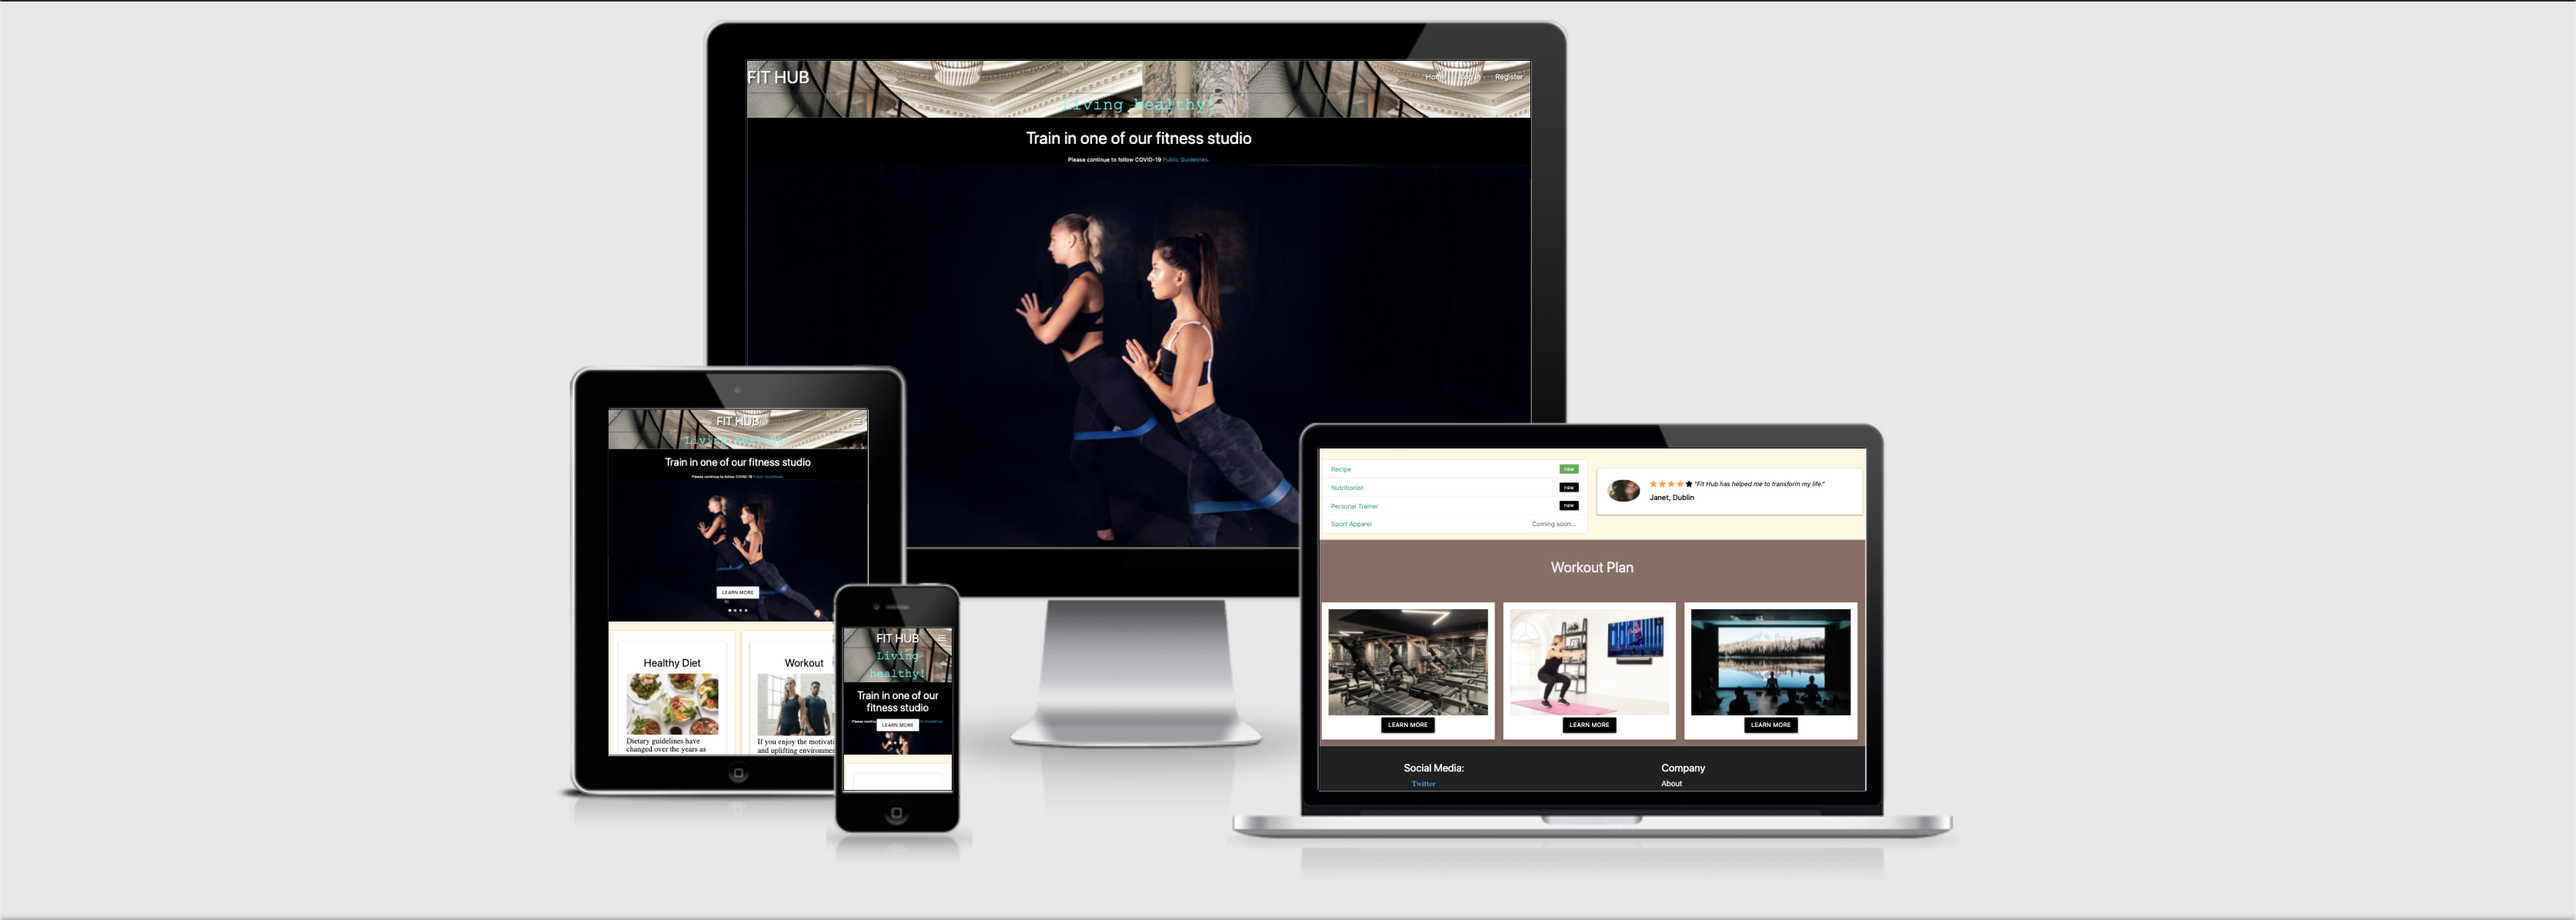
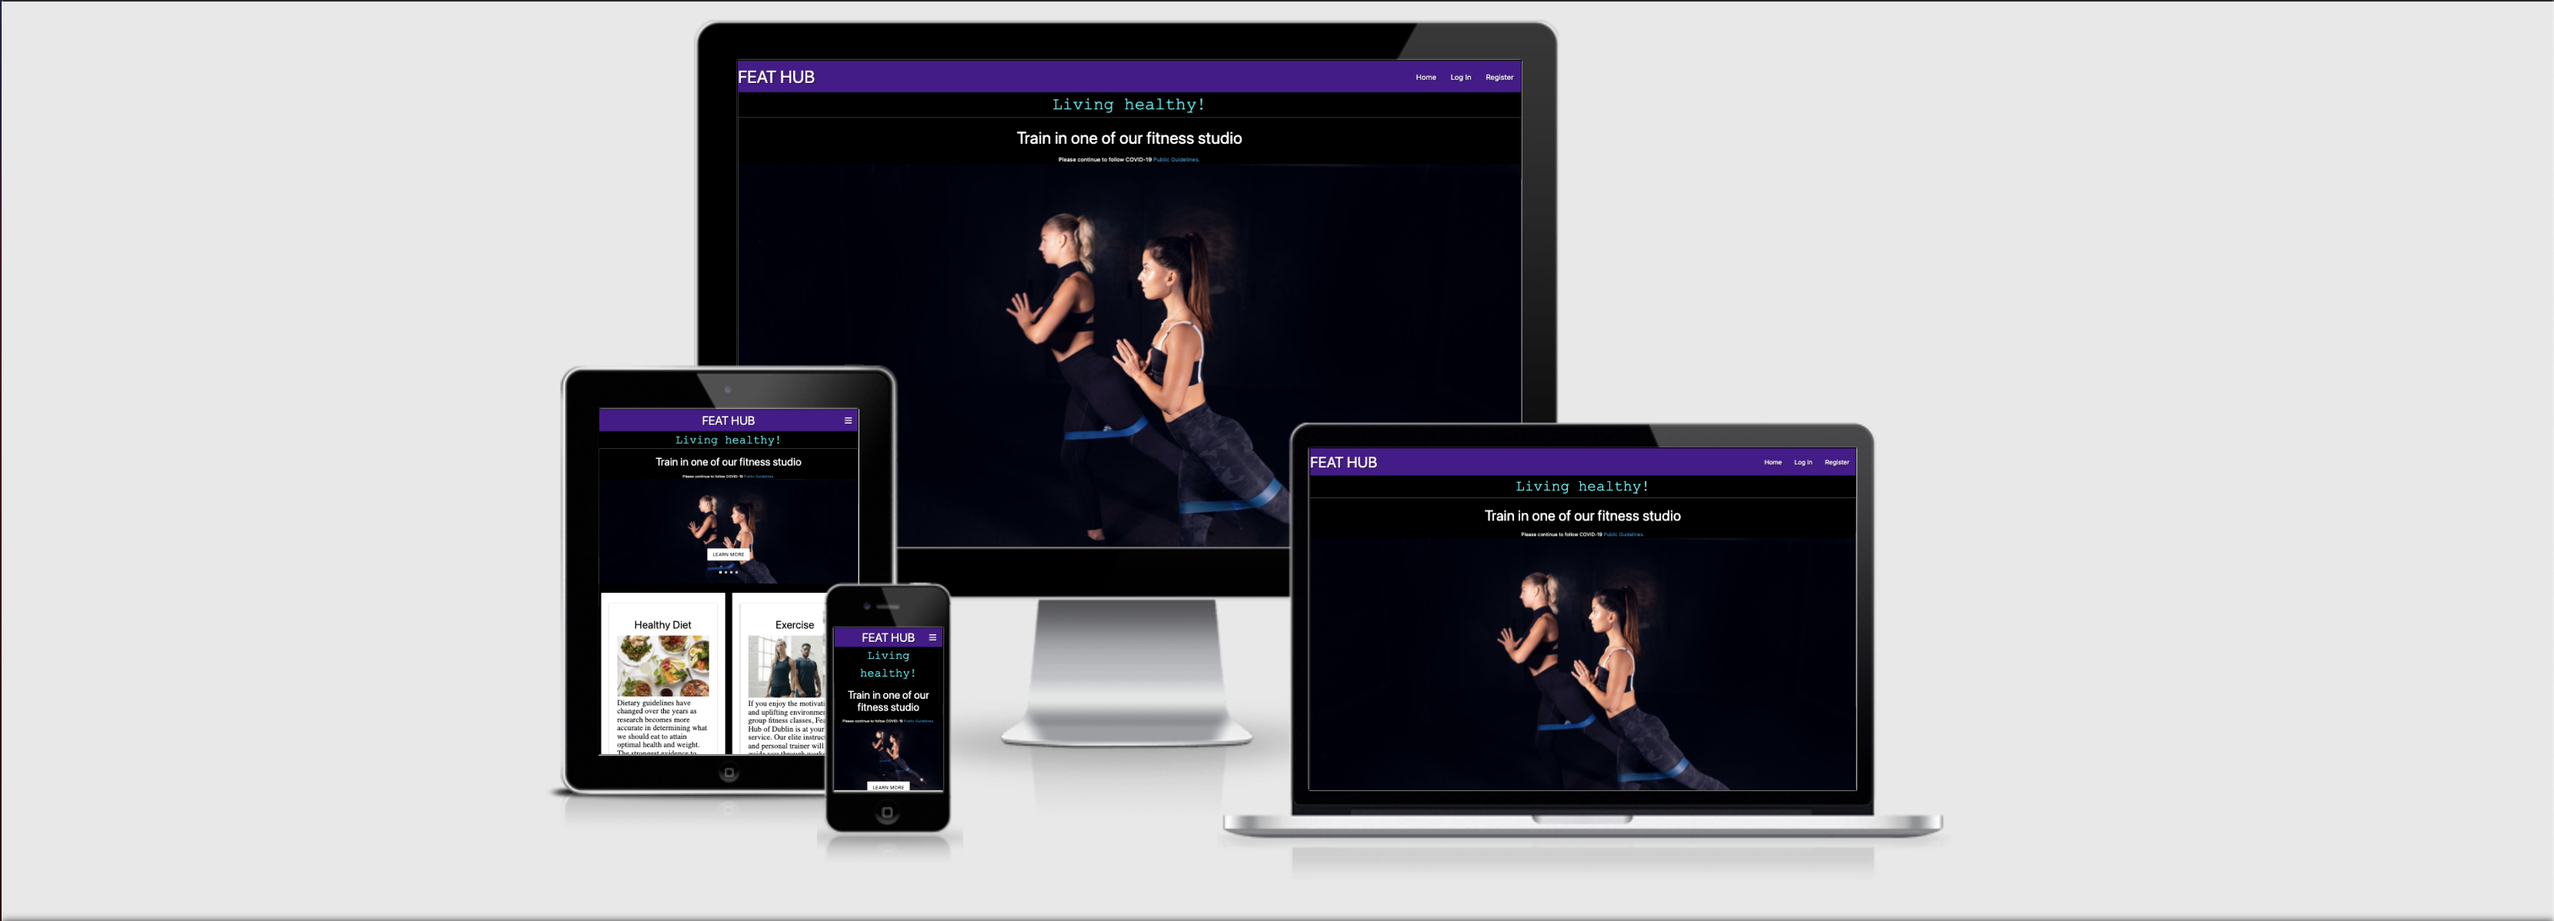
Fixed errors and updated README.md Screenshots

diff --git a/templates/base.html b/templates/base.html
@@ -1,6 +1,5 @@
 <!DOCTYPE html>
 <html lang="en">
-
 <head>
   <meta charset="UTF-8">
   <meta name="viewport" content="width=device-width, initial-scale=1.0">
@@ -16,11 +15,10 @@
   <script src="https://polyfill.io/v3/polyfill.min.js?features=default"></script>
   <script src="https://cdnjs.cloudflare.com/ajax/libs/popper.js/1.16.0/umd/popper.min.js"></script>
 </head>
-
 <body>
   <header class="masthead"
-    style="background-image: url('https://www.countryandtownhouse.co.uk/wp-content/uploads/2019/01/E-by-Equinox-Strength-Floor-Stairwell.jpg')">
-    <!-- top navbar -->
+    style="background-color: #000000">
+    <!-- Top Navbar -->
     <div class="navbar-fixed">
       <nav class="nav-extended text-shadow N/A #4a148c purple darken-4">
         <div class="nav-wrapper">
@@ -45,7 +43,8 @@
         </div>
       </nav>
     </div>
-    <ul class="sidenav" id="mobile">
+    <!-- Mobile Navbar -->
+    <ul class="sidenav" id="mobile-demo">
       <li><a href="{{ url_for('index') }}">Home</a></li>
       {% if session.user %}
       <li><a href="{{ url_for('profile', username=session['user']) }}">Profile</a></li>
@@ -65,7 +64,7 @@
     <div class="overlay"></div>
     <div class="container">
       <div class="row">
-        <div class="col-lg-8 col-md-10 mx-auto">
+        <div class="col-lg-8 col-md-5 mx-auto">
           <div class="site-heading" style="font-size: 35px;">
             <p class="center-align">Living healthy!</p>
           </div>
@@ -74,7 +73,7 @@
     </div>
   </header>
   <section>
-    <!-- flash messages -->
+    <!-- Flash Messages -->
     {% with messages = get_flashed_messages() %}
     {% if messages %}
     {% for message in messages %}
@@ -87,31 +86,44 @@
   </section>
   {% block content %}
   {% endblock %}
+  <!-- Image Carousel -->
   <div class="carousel carousel-slider center">
     <div class="carousel-fixed-item center">
-      <a href="{{ url_for('exercise') }}" class="waves-effect black-text white btn">Learn more</a>
+      <a href="{{ url_for('login') }}" class="waves-effect black-text white btn">Learn more</a>
     </div>
     <div class="carousel-item black white-text" href="#one!">
       <h4>Train in one of our fitness studio</h4>
       <small>Please continue to follow COVID-19 <a href="https://www.hse.ie/" target="_blank">Public
           Guidelines.</a></small>
+      <!-- Image linked from https://www.countryandtownhouse.co.uk/ -->
       <img class="card-img-top"
         src=https://www.countryandtownhouse.co.uk/wp-content/uploads/2020/12/sculpt-bands-option-2.jpg alt="Workout">
     </div>
-    <div class="carousel-item green white-text" href="#two!">
+    <div class="carousel-item black white-text" href="#two!">
+      <h5>Fruits & vegetables</h5>
+      <!-- Image linked from https://www.countryandtownhouse.co.uk/ -->
       <p class="white-text"><img class="card-img-top"
-          src=https://www.countryandtownhouse.co.uk/wp-content/uploads/2019/10/BarreChallenge5.jpg alt="Workout"></p>
+          src=https://www.countryandtownhouse.co.uk/wp-content/uploads/2020/01/ja-ma-gOUx23DNks-unsplash-782x522.jpg
+          alt="food"></p>
     </div>
-    <div class="carousel-item green white-text" href="#three!">
-      <h2></h2>
+    <div class="carousel-item black white-text" href="#three!">
+      <h5>Train like a champion</h5>
+      <!-- Image linked from https://theglossarymagazine.com/ -->
+      <p class="white-text"><img class="card-img-top"
+          src=https://cdn-bapon.nitrocdn.com/ckYvjxplFZbThUurOBJHjSbcErmBgJUm/assets/static/optimized/rev-f2c50af/wp-content/uploads/2020/08/workshop-gymnasiums.jpg
+          alt="workout"></p>
       <p class="white-text"></p>
     </div>
-    <div class="carousel-item blue white-text" href="#four!">
+    <div class="carousel-item black white-text" href="#four!">
+      <h5>Nutritious food</h5>
+      <!-- Image linked from https://www.bbc.com/future/article/20180126-the-100-most-nutritious-foods -->
+      <p class="white-text"><img class="card-img-top" src=https://ychef.files.bbci.co.uk/1600x900/p05xm061.webp
+          alt="food"></p>
       <h2></h2>
       <p class="white-text"></p>
     </div>
   </div>
-  <div class="container-fluid" style="background-color: #e0e0e0 grey lighten-2">
+  <div class="container-fluid" style="background-color: #000000">
     <div class="row">
       <div class="col s12 m6">
         <br>
@@ -119,6 +131,7 @@
           <span class="black-text">
             <div class="card-panel hoverable">
               <h4 class="center-align">Healthy Diet</h4>
+              <!-- Image linked from https://www.countryandtownhouse.co.uk/ -->
               <h5 style="font-family:'roboto,"><img
                   src=https://www.countryandtownhouse.co.uk/wp-content/uploads/2020/02/Daylesford-Delivered-Ready-To-Serve-food-for-events-783x522.gif
                   alt="Food Menu"> Dietary guidelines have changed over the years as research becomes
@@ -142,6 +155,7 @@
             <span class="black-text">
               <div class="card-panel hoverable">
                 <h4 class="center-align">Exercise</h4>
+                <!-- Image linked from https://www.countryandtownhouse.co.uk/ -->
                 <h5 style="font-family:'roboto,"><img
                     src=https://www.countryandtownhouse.co.uk/wp-content/uploads/2021/03/Duco.jpg alt="Fitness">
                   If you enjoy the motivating and uplifting environment of group
@@ -153,7 +167,7 @@
                   your
                   next fitness class today.</a></h5>
                 <div class="card-action">
-                  <a href="{{ url_for('exercise') }}" class="waves-effect black btn">Learn more</a>
+                  <a href="{{ url_for('login') }}" class="waves-effect black btn">Learn more</a>
                 </div>
               </div>
             </span>
@@ -168,8 +182,10 @@
         <div class="col s12 m6">
           <div class="collection">
             <a href="{{ url_for('login') }}" class="collection-item"><span class="new badge green"></span>Recipe</a>
-            <a href="#!" class="collection-item"><span class="new badge black"></span>Nutritionist</a>
-            <a href="#!" class="collection-item"><span class="new badge black"></span>Personal Trainer</a>
+            <a href="https://www.mindbodyonline.com/" target="_blank" class="collection-item"><span
+                class="new badge black"></span>Nutritionist</a>
+            <a href="https://www.mindbodyonline.com/" target="_blank" class="collection-item"><span
+                class="new badge black"></span>Personal Trainer</a>
             <a href="#!" class="collection-item"><span class="badge">Coming soon...</span>Sport Apparel</a>
           </div>
         </div>
@@ -178,6 +194,7 @@
           <div class="card-panel white lighten-5 z-depth-1">
             <div class="row valign-wrapper">
               <div class="col s2">
+                <!-- Image linked from https://www.countryandtownhouse.co.uk/ -->
                 <img
                   src="https://www.countryandtownhouse.co.uk/wp-content/uploads/2021/07/lesly-juarez-1AhGNGKuhR0-unsplash-783x522.jpg"
                   alt="" class="circle responsive-img"> <!-- notice the "circle" class -->
@@ -200,38 +217,38 @@
       </div>
     </div>
   </div>
-  <div class="container-fluid" style="background-color: #e0e0e0 grey lighten-2">
+  <div class="container-fluid" style="background-color: #000000">
     <div class="row">
       <br>
-      <h4 class="center-align" style="color:#000">Workout Plan</h4>
+      <h4 class="center-align" style="color:#ffffff">Workout Plan</h4>
       <div class="column">
         <br>
         <div class="card">
-          <!-- Image linked from https://theculturetrip.com/-->
+          <!-- Image linked from https://www.countryandtownhouse.co.uk/ -->
           <img class="card-img-top"
             src=https://www.countryandtownhouse.co.uk/wp-content/uploads/2021/05/Karve-Club-2.jpg alt="Fitness">
           <br>
-          <a href="{{ url_for('login') }}" class="waves-effect black btn">Learn more</a>
+          <a href="https://www.mindbodyonline.com/" target="_blank" class="waves-effect black btn">Learn more</a>
         </div>
       </div>
       <div class="column">
         <br>
         <div class="card">
-          <!-- Image linked from https://theculturetrip.com/-->
+          <!-- Image linked from https://www.countryandtownhouse.co.uk/ -->
           <img class="card-img-bottom"
             src=https://www.countryandtownhouse.co.uk/wp-content/uploads/2020/01/At-home-cardio-5.jpg alt="Fitness">
           <br>
-          <a href="{{ url_for('login') }}" class="waves-effect black btn">Learn more</a>
+          <a href="https://www.mindbodyonline.com/" target="_blank" class="waves-effect black btn">Learn more</a>
         </div>
       </div>
       <div class="column">
         <br>
         <div class="card">
-          <!-- Image linked from https://theculturetrip.com/-->
+          <!-- Image linked from https://www.countryandtownhouse.co.uk/ -->
           <img class="card-img-top" src=https://www.countryandtownhouse.co.uk/wp-content/uploads/2019/03/FLY_Flow_03.jpg
             alt="Yoga">
           <br>
-          <a href="{{ url_for('login') }}" class="waves-effect black btn">Learn more</a>
+          <a href="https://www.mindbodyonline.com/" target="_blank" class="waves-effect black btn">Learn more</a>
         </div>
         <br>
         <br>
@@ -242,7 +259,7 @@
   </div>
   </div>
   </div>
-  <!-- End of page (footer) is used across all the pages of our website -->
+  <!-- End of page (footer) -->
   <div class="container-fluid">
     <footer class="page-footer">
       <div class="container">
@@ -252,12 +269,16 @@
             <ul>
               <li>
                 <a style="color: #2196f3;" href="https://www.facebook.com.com" target="_blank"><i
-                  class="fab fa-facebook-f fa-lg"> Facebook</i></a>
+                    class="fab fa-facebook-f fa-lg"> facebook</i></a>
               </li>
+              <li>
                 <a style="color: #ffffff;" href="https://www.twitter.com" target="_blank"><i
-                    class="fab fa-twitter fa-lg"> Twitter</i></a><br>
+                    class="fab fa-twitter fa-lg"> twitter</i></a>
+              </li>
+              <li>
                 <a style="color: #f50057;" href="https://www.instagram.com" target="_blank"><i
-                    class="fab fa-instagram fa-lg"> Instagram</i></a>
+                    class="fab fa-instagram fa-lg"> instagram</i></a>
+              </li>
             </ul>
           </div>
           <div class="col l4 offset-l2 s12">
@@ -294,5 +315,4 @@
     })
   </script>
 </body>
-
 </html>

diff --git a/templates/about.html b/templates/about.html
@@ -9,14 +9,17 @@
             <div class="card-panel #ffffff white">
                 <h5 class="black-text">The Dublin fitness scene has been completely revolutionised over the past few
                     years with a record number of people in the capital taking up dedicated health and wellness regimes.
-                    spaces opening all the time. From chic changing facilities to world-class trainers, interesting
+                    With new spaces opening all the time, from chic changing facilities to world-class trainers,
+                    interesting
                     class variations
                     and delicious post-workout fuel, it has never been so easy to get fit in the capital. Plus, becoming
                     healthier
-                    is no longer simply about punishing ourselves for our supposed indulgences. For the best results,
+                    is no longer about punishing ourselves for our supposed indulgences. For the best results,
                     your workout regime should make you feel better too.
-                    Our goal is to connect you with the best personal trainer, nutritionist, and to give our member
-                    daily tips on healthy diet and workout plan that are dedicated to building your resilience, in
+                    Our goal at Feat Hub is to connect you with the best personal trainer, nutritionist, and to give our
+                    member
+                    daily tips on healthy diet, workout plan, and lifestyle that are dedicated to building your
+                    resilience, in
                     accordance with modern sports science theory.</h5>
             </div>
         </div>

diff --git a/app.py b/app.py
@@ -56,7 +56,7 @@ def search():
 def add_recipe():
     # Save Recipe    
     if request.method == "POST":
-        diet = {
+        submit = {
             "category_name": request.form.get("category_name"),
             "diet_name": request.form.get("diet_name"),
             "diet_description": request.form.getlist("diet_description"),
@@ -77,18 +77,6 @@ def add_recipe():
 @app.route("/exercise")
 def exercise():
     return render_template("exercise.html")
-
-
-# Lifestyle Section
-@app.route("/lifestyle")
-def lifestyle():
-    return render_template("lifestyle.html")
-
-
-# Personal Trainer
-@app.route("/personal-trainer")
-def personal_trainer():
-    return render_template("personal-trainer.html")
 
 
 @app.route("/logout")
@@ -153,6 +141,7 @@ def register():
 
     return render_template("register.html")
 
+
 # Manage Categories
 @app.route("/get_categories")
 def get_categories():
@@ -188,12 +177,14 @@ def edit_category(category_id):
     category = mongo.db.categories.find_one({"_id": ObjectId(category_id)})
     return render_template("edit_category.html", category=category)
 
+
 # Delete Category
 @app.route("/delete_category/<category_id>")
 def delete_category(category_id):
     mongo.db.categories.remove({"_id": ObjectId(category_id)})
     flash("Category Successfully Deleted")
     return redirect(url_for("get_categories"))
+
 
 # About Section
 @app.route("/about")
